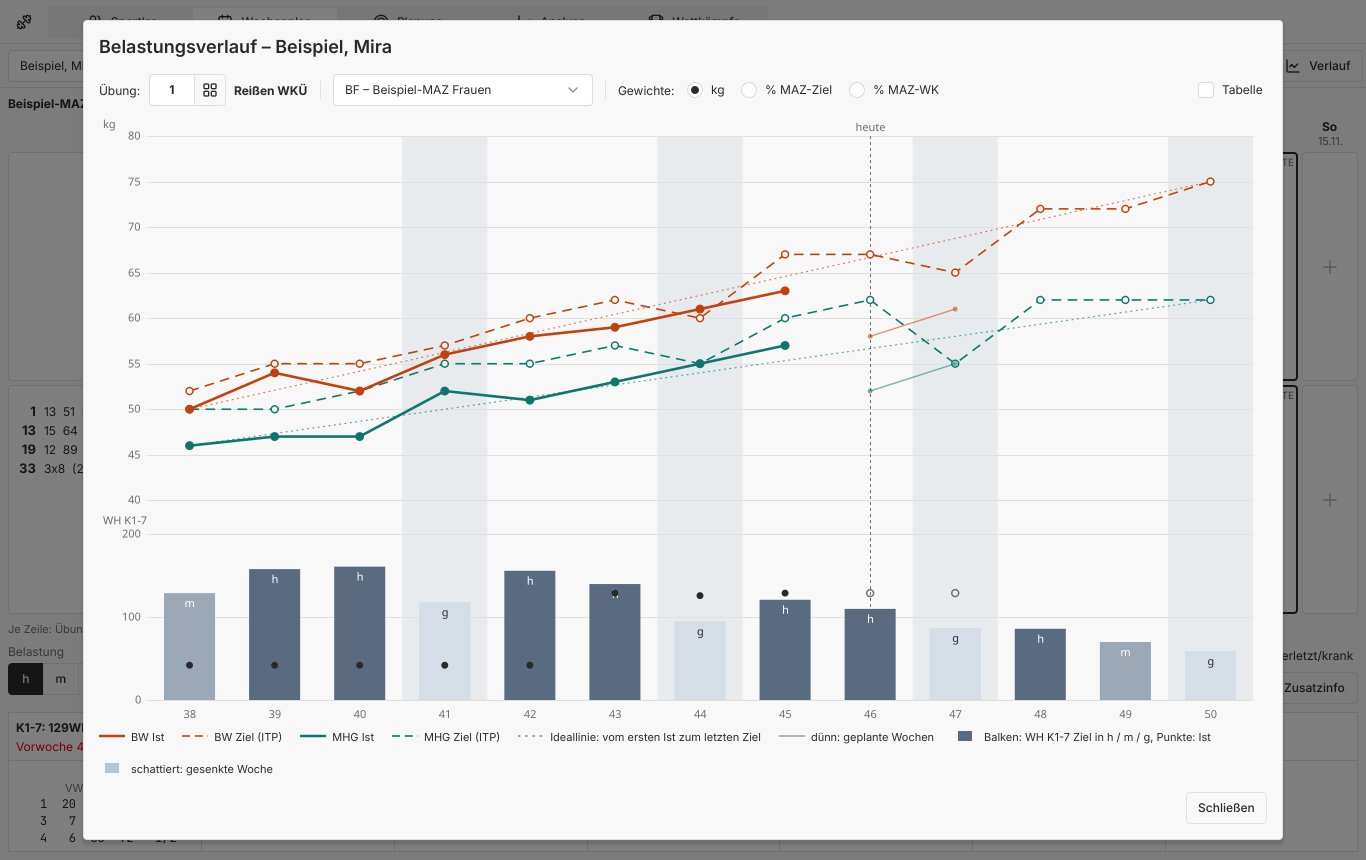
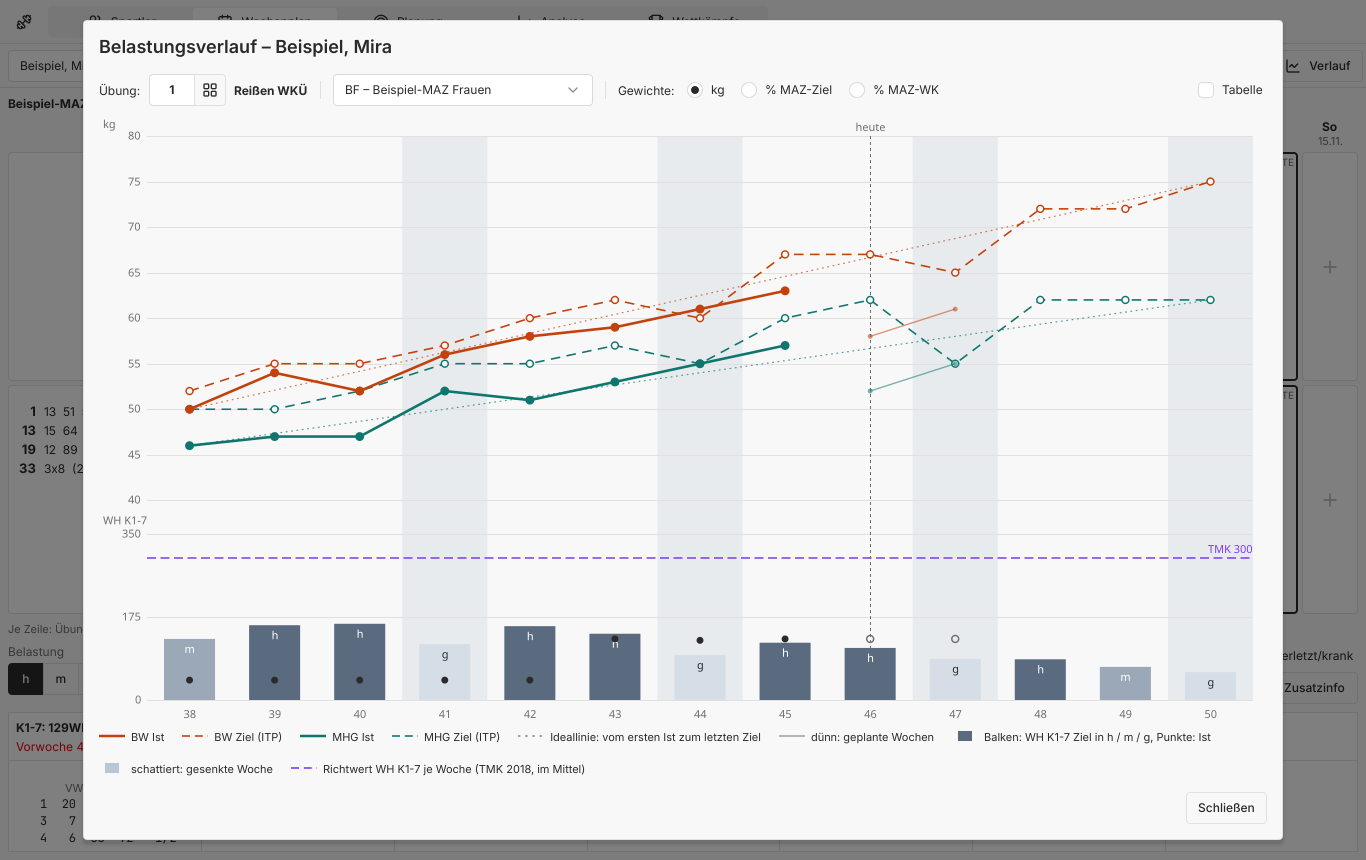
Show the TMK's weekly volume as a reference
The Trainingsmittelkatalog 2018 gives the WH a week per age stage, for
K1-7 (Kinder 200, Schüler 280, Jugend 350, Junioren 300, U23 320,
Senioren 300) and per complex. The Belastungsverlauf now draws it as a
dashed line over the WH bars, stepping where the athlete's age class
changes, and names it in the hover box and the table. The grid's tips
for K1..K6 and K1-7 name the value for the age in the first week, for
a RO that of the MAZ's youngest.

It is a reference, not a cap: the RTK's framework plans meet it as a
mean over the cycle (U13 201, U15 289, U17 358, U20 299) and go well
above it in their high weeks, which the core test checks.

The demo's Mira is a Junior with a deliberately light plan, so the
handbook picture shows her bars below the line, and the text says why.
The demo now takes the weight step from Planning::weightStep() too.

diff --git a/qml/LoadChart.qml b/qml/LoadChart.qml
@@ -9,7 +9,8 @@ import Trainingsplaner
 // as planned for the weeks ahead (thin), and an ideal line straight from
 // the first week done to the last target. Below, the reps of K1-7: the
 // target as bars in the colour of the week's load (h / m / g), done as
-// dots. Lowered weeks are shaded, today is marked.
+// dots, and the TMK's K1-7 a week for the athlete's age as a dashed
+// reference line. Lowered weeks are shaded, today is marked.
 Item {
     id: chart
 
@@ -21,6 +22,8 @@ Item {
     readonly property color bwColor: "#c2410c"
     readonly property color mhgColor: "#0f766e"
     readonly property var loadColor: ({ h: "#5b6b7f", m: "#9aa8b8", g: "#d5dde6" })
+    readonly property color normColor: "#7c3aed"
+    readonly property bool hasNorm: (course.norm || []).some(v => v)
 
     onCourseChanged: canvas.requestPaint()
     onWidthChanged: canvas.requestPaint()
@@ -112,6 +115,9 @@ Item {
                 for (const v of set.wh)
                     if (v)
                         whMax = Math.max(whMax, v)
+            for (const v of c.norm || [])
+                if (v)
+                    whMax = Math.max(whMax, v)
             whMax = whMax > 0 ? Math.ceil(whMax * 1.1 / 50) * 50 : 100
             const yBottom = v => chart.bottomTop + chart.bottomHeight * (1 - v / whMax)
 
@@ -199,6 +205,39 @@ Item {
                     ctx.strokeStyle = chart.s.text_muted
                     ctx.lineWidth = 1.5
                     ctx.beginPath(); ctx.arc(chart.xAt(i), yBottom(p), 3.5, 0, 2 * Math.PI); ctx.stroke()
+                }
+            }
+
+            // The TMK's K1-7 a week, a step where the age changes; its
+            // number at the right end
+            if (chart.hasNorm) {
+                ctx.save()
+                ctx.strokeStyle = chart.normColor
+                ctx.lineWidth = 1.5
+                ctx.setLineDash([6, 3])
+                ctx.beginPath()
+                let last = null
+                for (let i = 0; i < n; ++i) {
+                    const v = c.norm[i]
+                    if (!v) {
+                        last = null
+                        continue
+                    }
+                    const x0 = chart.plotLeft + chart.slot * i
+                    if (last === null) ctx.moveTo(x0, yBottom(v))
+                    else ctx.lineTo(x0, yBottom(v))
+                    ctx.lineTo(x0 + chart.slot, yBottom(v))
+                    last = v
+                }
+                ctx.stroke()
+                ctx.restore()
+                const end = c.norm[n - 1]
+                if (end) {
+                    ctx.fillStyle = chart.normColor
+                    ctx.textAlign = "right"
+                    ctx.textBaseline = "bottom"
+                    ctx.fillText("TMK " + end, chart.width - chart.plotRight, yBottom(end) - 2)
+                    ctx.textAlign = "center"
                 }
             }
 
@@ -301,6 +340,7 @@ Item {
                        + "\nBW   Ziel " + v(c.target.bw[i]) + u + " · Ist " + v(c.actual.bw[i]) + u + " · Plan " + v(c.planned.bw[i]) + u
                        + "\nMHG  Ziel " + v(c.target.mhg[i]) + u + " · Ist " + v(c.actual.mhg[i]) + u + " · Plan " + v(c.planned.mhg[i]) + u
                        + "\nWH K1-7  Ziel " + v(c.target.wh[i]) + " · Ist " + v(c.actual.wh[i]) + " · Plan " + v(c.planned.wh[i])
+                       + (c.norm && c.norm[i] ? " · TMK " + c.norm[i] : "")
             }
         }
     }

diff --git a/tests/tst_tmk.qml b/tests/tst_tmk.qml
@@ -115,4 +115,28 @@ TestCase {
         compare(warning(0, 2), "")
         grid.owner = Plan.roOwner(mazId)
     }
+
+    // The TMK's WH a week: the reference line of the Belastungsverlauf and
+    // the tips of the complexes in the grid
+    function test_3_volume() {
+        // Jule is a Junior now (AK 18): K1-7 300 a week
+        const c = Plan.loadCourse(athletes[0], mazId, "", 0, 1, "kg")
+        compare(c.norm.length, 13)
+        compare(c.norm[0], 300)
+        compare(c.norm[12], 300)
+        compare(c.normText, "Richtwert K1-7 nach TMK 2018 im Mittel je Woche, Junioren (AK 18–20): 300 WH")
+        verify(JSON.stringify(c.report).indexOf("Junioren (AK 18–20): 300 WH") >= 0)
+
+        // The RO goes by the youngest, Sami (AK 14): K3 55, no K4
+        compare(grid.columnInfo(8).tip, "Summe der Komplexe K1 bis K7, aus deren WH"
+                                        + "\nRichtwert TMK 2018 für Schüler (AK 14–15): 280 WH je Woche im Mittel")
+        compare(grid.columnInfo(7).tip, "Komplex K3\nRichtwert TMK 2018 für Schüler (AK 14–15): 55 WH je Woche im Mittel")
+        compare(grid.columnInfo(6).tip, "Komplex K4")
+        compare(grid.columnInfo(9).tip, "Summe der Komplexe K1 bis K5, aus deren WH")
+
+        // Without a birth date: no line
+        const none = Store.saveAthlete({ lastName: "Katalog", firstName: "Ohne", sex: 0 })
+        athletes.push(none)
+        compare(Plan.loadCourse(none, "", Plan.maz(mazId).fromMonday, 4, 1, "kg").norm, [undefined, undefined, undefined, undefined])
+    }
 }

diff --git a/qml/HelpDialog.qml b/qml/HelpDialog.qml
@@ -156,7 +156,8 @@ AppDialog {
                           + "in Prozent eintragen (zurück mit „‹ MAZ“). Unter „ITP“ daraus mit „Vorlage“ den "
                           + "individuellen Trainingsplan des Sportlers berechnen. Rot sind Werte über dem "
                           + "Trainingsmittelkatalog 2018 für das Alter (BW %, Übungen und Komplexe ab welcher AK); die "
-                          + "Maus über der Zahl nennt den Grund.<br><br>"
+                          + "Maus über der Zahl nennt den Grund. Den Richtwert des TMK für die WH je Woche nennen die Spalten "
+                          + "K1–K6 und K1-7 und zeigt der Belastungsverlauf als violette Linie.<br><br>"
                           + "<b>Analyse:</b> Abschnittsanalyse über beliebige Wochen oder eine MAZ, Grafik je Übung, "
                           + "Belastungstabellen. Die Tabellen stehen sofort da und folgen den Einstellungen. „Kopieren“ "
                           + "legt sie für eine Tabellenkalkulation in die Zwischenablage, „Speichern unter“ schreibt ein PDF "

diff --git a/qml/LoadChartDialog.qml b/qml/LoadChartDialog.qml
@@ -170,7 +170,8 @@ AppDialog {
                     { text: "dünn: geplante Wochen", color: "#888888", style: "thin" },
                     { text: "Balken: WH K1-7 Ziel in h / m / g, Punkte: Ist", color: "#5b6b7f", style: "bar" },
                     { text: "schattiert: gesenkte Woche", color: "#b8c6d6", style: "bar" }
-                ]
+                ].concat(chart.hasNorm ? [{ text: "Richtwert WH K1-7 je Woche (TMK 2018, im Mittel)",
+                                            color: chart.normColor, style: "dash" }] : [])
                 Row {
                     required property var modelData
                     spacing: 6

diff --git a/src/planstore.cpp b/src/planstore.cpp
@@ -6,6 +6,8 @@
 #include "planning.h"
 #include "report.h"
 #include "rtk.h"
+#include "tmk.h"
+#include "youth.h"
 
 #include <QSet>
 
@@ -303,8 +305,11 @@ QVariantMap Plan::loadCourse(const QString &athleteId, const QString &mazId, con
 
     const QDate todayMonday = Weeks::mondayOf(QDate::currentDate());
     int todayIndex = -1;
-    QVariantList labels, mondays, loads;
+    QVariantList labels, mondays, loads, norms;
     QVariantList zMhg, zBw, zWh, iMhg, iBw, iWh, pMhg, pBw, pWh;
+    // The TMK's K1-7 a week for the athlete's age in each week
+    const QDate born = Database::athlete(athleteId).born;
+    QStringList normTexts;
     auto opt = [](int v) { return v > 0 ? QVariant(v) : QVariant(); };
     Report::Document doc;
     const QString exName = Catalog::name(exercise);
@@ -322,6 +327,15 @@ QVariantMap Plan::loadCourse(const QString &athleteId, const QString &mazId, con
         labels.append(QString::number(m.weekNumber()));
         mondays.append(m.toString(Qt::ISODate));
         loads.append(Planning::loadText(load.value(m)));
+        if (born.isValid()) {
+            const Tmk::Stage stage = Tmk::stage(Youth::ageClass(born, m));
+            norms.append(Tmk::weeklyWh(0, stage));
+            const QString text = QStringLiteral("%1: %2 WH").arg(Tmk::stageName(stage)).arg(Tmk::weeklyWh(0, stage));
+            if (!normTexts.contains(text))
+                normTexts.append(text);
+        } else {
+            norms.append(QVariant());
+        }
         const WeekTarget t = target.value(m);
         int z17 = 0;
         for (int w : groupWh.value(m))
@@ -346,8 +360,15 @@ QVariantMap Plan::loadCourse(const QString &athleteId, const QString &mazId, con
                                                                ? QStringLiteral("% des MAZ-Ziels (%1 kg)").arg(ref)
                                                                : QStringLiteral("% des MAZ-Wettkampfs (%1 kg)").arg(ref))
                                                          : QStringLiteral("kg")));
+    const QString normText = normTexts.isEmpty()
+                                 ? QString()
+                                 : QStringLiteral("Richtwert K1-7 nach TMK 2018 im Mittel je Woche, %1")
+                                       .arg(normTexts.join(QStringLiteral(", ")));
+    if (!normText.isEmpty())
+        doc.note(normText);
     doc.table(rows);
-    result = {{QStringLiteral("labels"), labels}, {QStringLiteral("mondays"), mondays}, {QStringLiteral("load"), loads},
+    result = {{QStringLiteral("labels"), labels},
+              {QStringLiteral("norm"), norms}, {QStringLiteral("normText"), normText}, {QStringLiteral("mondays"), mondays}, {QStringLiteral("load"), loads},
               {QStringLiteral("todayIndex"), todayIndex}, {QStringLiteral("unit"), unit},
               {QStringLiteral("reference"), ref},
               {QStringLiteral("target"), QVariantMap{{QStringLiteral("mhg"), zMhg}, {QStringLiteral("bw"), zBw}, {QStringLiteral("wh"), zWh}}},

diff --git a/tests/tst_core.cpp b/tests/tst_core.cpp
@@ -41,6 +41,7 @@ private slots:
     void jumpOnHalfGrid();
     void youthRules();
     void tmkCaps();
+    void tmkVolumes();
     void statsMatchOldProgram();
     void entryEncoding();
     void weekLabels();
@@ -177,6 +178,44 @@ void TestCore::tmkCaps()
         }
     }
     QVERIFY(checked > 500);
+}
+
+// The TMK's WH a week per stage, and the RTK's framework plans around it
+// on average: the norm is a mean over the cycle, not a cap
+void TestCore::tmkVolumes()
+{
+    QList<int> k17;
+    for (int s = Tmk::Kinder; s <= Tmk::Senioren; ++s)
+        k17.append(Tmk::weeklyWh(0, Tmk::Stage(s)));
+    QCOMPARE(k17, QList<int>({200, 280, 350, 300, 320, 300}));
+    QCOMPARE(Tmk::weeklyWh(-1, Tmk::Kinder), 85);
+    QCOMPARE(Tmk::weeklyWh(-3, Tmk::Kinder), 0);
+    QCOMPARE(Tmk::weeklyWh(-4, Tmk::Junioren), 30);
+    QCOMPARE(Tmk::weeklyWh(-6, Tmk::Senioren), 70);
+    QCOMPARE(Tmk::weeklyWh(-7, Tmk::Jugend), 0);
+    QCOMPARE(Tmk::weeklyWh(-8, Tmk::Jugend), 0);
+
+    QFile f(QStringLiteral(":/rtk-ro.json"));
+    QVERIFY(f.open(QIODevice::ReadOnly));
+    const QJsonArray templates = QJsonDocument::fromJson(f.readAll()).object().value(QStringLiteral("templates")).toArray();
+    const Tmk::Stage stages[] = {Tmk::Kinder, Tmk::Schueler, Tmk::Jugend, Tmk::Junioren};
+    for (int i = 0; i < 4; ++i) {
+        const QJsonArray rows = templates[i].toObject().value(QStringLiteral("rows")).toArray();
+        int sum = 0, max = 0;
+        for (const QJsonValue &r : rows) {
+            int week = 0;
+            const QJsonObject complexes = r.toObject().value(QStringLiteral("complexes")).toObject();
+            for (auto it = complexes.begin(); it != complexes.end(); ++it)
+                week += it.value().toInt();
+            sum += week;
+            max = qMax(max, week);
+        }
+        const double mean = double(sum) / rows.size();
+        const int norm = Tmk::weeklyWh(0, stages[i]);
+        // U13 201 for 200, U15 289 for 280, U17 358 for 350, U20 299 for 300
+        QVERIFY2(qAbs(mean - norm) <= 10, qPrintable(QString::number(mean)));
+        QVERIFY(max > norm);
+    }
 }
 
 void TestCore::youthRules()

diff --git a/src/itpmodel.cpp b/src/itpmodel.cpp
@@ -200,6 +200,17 @@ QString ItpModel::warning(int row, int column) const
     return text + QStringLiteral(", %1 kg bei %2 kg Ziel.").arg(cap).arg(target);
 }
 
+QString ItpModel::normTip(int complex) const
+{
+    if (!m_born.isValid() || !m_from.isValid())
+        return {};
+    const Tmk::Stage stage = Tmk::stage(Youth::ageClass(m_born, m_from));
+    const int wh = Tmk::weeklyWh(complex, stage);
+    if (wh <= 0)
+        return {};
+    return QStringLiteral("\nRichtwert TMK 2018 für %1: %2 WH je Woche im Mittel").arg(Tmk::stageName(stage)).arg(wh);
+}
+
 int ItpModel::value(int row, int column) const
 {
     const QDate monday = m_from.addDays(7 * row);
@@ -318,7 +329,7 @@ QVariantMap ItpModel::columnInfo(int column) const
         return {{QStringLiteral("title"), k == Sum17 ? QStringLiteral("K1-7") : QStringLiteral("K1-5")},
                 {QStringLiteral("sub"), QStringLiteral("WH")}, {QStringLiteral("first"), true},
                 {QStringLiteral("exercise"), 0}, {QStringLiteral("readOnly"), true},
-                {QStringLiteral("tip"), k == Sum17 ? QStringLiteral("Summe der Komplexe K1 bis K7, aus deren WH")
+                {QStringLiteral("tip"), k == Sum17 ? QStringLiteral("Summe der Komplexe K1 bis K7, aus deren WH") + normTip(0)
                                                    : QStringLiteral("Summe der Komplexe K1 bis K5, aus deren WH")}};
     if (k == Load)
         return {{QStringLiteral("title"), QStringLiteral("Bel.")}, {QStringLiteral("sub"), QString()},
@@ -337,7 +348,7 @@ QVariantMap ItpModel::columnInfo(int column) const
             {QStringLiteral("first"), k == Wh},
             {QStringLiteral("exercise"), e},
             {QStringLiteral("readOnly"), false},
-            {QStringLiteral("tip"), e < 0 ? QStringLiteral("Komplex K%1").arg(-e) : Catalog::name(e)}};
+            {QStringLiteral("tip"), e < 0 ? QStringLiteral("Komplex K%1").arg(-e) + normTip(e) : Catalog::name(e)}};
 }
 
 QString ItpModel::rowLabel(int row) const

diff --git a/src/tmk.cpp b/src/tmk.cpp
@@ -143,6 +143,23 @@ QString notForStage(int exercise, Stage s)
     return QStringLiteral("%1 ist im TMK 2018 nicht für %2 vorgesehen.").arg(name, stageName(s));
 }
 
+int weeklyWh(int complex, Stage s)
+{
+    // K1-7, then K1..K7; the WH/Wo of the TMK's group rows
+    static const int volumes[8][6] = {
+        {200, 280, 350, 300, 320, 300},
+        {85, 80, 70, 40, 40, 40},
+        {85, 70, 60, 40, 40, 30},
+        {0, 55, 80, 60, 70, 60},
+        {0, 0, 0, 30, 30, 30},
+        {30, 75, 90, 70, 80, 70},
+        {0, 0, 50, 60, 60, 70},
+        {0, 0, 0, 0, 0, 0},
+    };
+    const int row = -complex;
+    return row >= 0 && row < 8 ? volumes[row][s] : 0;
+}
+
 bool exemptInCompetition(int exercise, const QString &position)
 {
     const QString p = position.trimmed().toUpper();

diff --git a/src/demo.cpp b/src/demo.cpp
@@ -6,7 +6,6 @@
 #include "planning.h"
 
 #include <QMap>
-#include <QSettings>
 #include <QtMath>
 
 namespace {
@@ -195,8 +194,7 @@ void createMaz(const QString &id, const Person &p, const QDate &monday)
         Planning::setMeta(ro, roMeta);
     }
     // The ITP: what "Vorlage" makes of the RO, on the program's weight step
-    const double step = QSettings().value(QStringLiteral("general/weightStep"), 2.5).toDouble() == 1.0 ? 1.0 : 2.5;
-    Planning::itpFromRo(z.id, id, step);
+    Planning::itpFromRo(z.id, id, Planning::weightStep());
 
     QMap<QDate, WeekTarget> itp;
     for (const WeekTarget &t : Planning::targets(id, z.from, z.to)) {

diff --git a/src/tmk.h b/src/tmk.h
@@ -30,6 +30,12 @@ Entry entry(int exercise, Stage s);
 // vorgesehen."; "" when it is
 QString notForStage(int exercise, Stage s);
 
+// The TMK's weekly volume of a stage as a reference: the WH a week of a
+// complex (-1..-6), or of K1-7 for 0; 0 when the TMK gives none (K7 is
+// optional). It is the average over a cycle, as the RTK's framework plans
+// show, not a cap on each week.
+int weeklyWh(int complex, Stage s);
+
 // Reißen and Stoßen in a week with a competition (WK-Lage "WK" or "HWK"):
 // the competition goes to 100 % and more, so no cap
 bool exemptInCompetition(int exercise, const QString &position);

diff --git a/src/itpmodel.h b/src/itpmodel.h
@@ -78,6 +78,9 @@ private:
     int complexSum(const QDate &monday, int last) const;
     // What the TMK 2018 says against a cell, "" when nothing
     QString warning(int row, int column) const;
+    // The TMK's WH a week of a complex (0: K1-7) for the age in the first
+    // week, as a line for a column's tip; "" without one
+    QString normTip(int complex) const;
 
     QString m_owner;
     QDate m_from;

diff --git a/docs/HANDBUCH.md b/docs/HANDBUCH.md
@@ -261,6 +261,11 @@ vorsieht. Sie finden ihn an drei Stellen:
   Linien rechts sind geplante Wochen.
 - **Unten die Balken:** die Wiederholungen K1–K7 laut ITP, beschriftet mit
   der Belastung der Woche (h / m / g). Die Punkte darauf sind das Ist.
+- Die violett gestrichelte Linie ist der **Richtwert** des
+  Trainingsmittelkatalogs (TMK 2018) für die Wiederholungen K1-7 je Woche
+  im Alter des Sportlers: Kinder 200, Schüler 280, Jugend 350, Junioren
+  300, U23 320, Senioren 300. Er gilt im Mittel über den Zyklus; die
+  hohen Wochen liegen darüber, die gesenkten darunter.
 - **Grau schattiert** sind die gesenkten Wochen (g).
 - Die senkrechte Linie **heute** trennt Vergangenheit und Zukunft.
 
@@ -269,6 +274,9 @@ vorsieht. Sie finden ihn an drei Stellen:
 > in den gesenkten zurück. Miras Ist (durchgezogen) folgt dem Ziel
 > (gestrichelt) bis Woche 45 mit wenigen Kilo Abstand. Ab heute zeigen
 > dünne Linien, was für die nächsten Wochen geplant ist.
+> Mira ist 2026 in der AK 19, ihr Richtwert liegt bei 300 WH. Die
+> erfundenen Beispieldaten planen bewusst weniger, passend zu ihren
+> Trainingseinheiten.
 
 Oben lassen sich **Übung** und **MAZ** wählen. **Gewichte** schaltet
 zwischen kg, % des MAZ-Ziels und % des Wettkampfergebnisses um.
@@ -374,6 +382,11 @@ des TMK mit der Zielleistung in kg um und rundet wie **Vorlage**. In
 einer Woche mit Wettkampf (WK-Lage **WK** oder **HWK**) dürfen Reißen
 und Stoßen darüber liegen, denn der Wettkampf selbst geht bis 100 % und
 mehr. Die rote Zahl ist ein Hinweis: sie bleibt, wie sie eingetragen ist.
+
+Mit der Maus über den Spaltenköpfen **K1** bis **K6** und **K1-7** steht
+außerdem der Richtwert des TMK für die Wiederholungen je Woche, z. B. für
+die Jugend K1-7 350 und K3 80. Die Vorlagen der RTK treffen ihn im Mittel
+(U17: 358 WH K1-7 je Woche).
 
 > **Beispiel:** Die Vorlagen der RTK bleiben in allen Trainingswochen
 > innerhalb des TMK. Setzt man in „RTK U17“ für eine Sportlerin der
